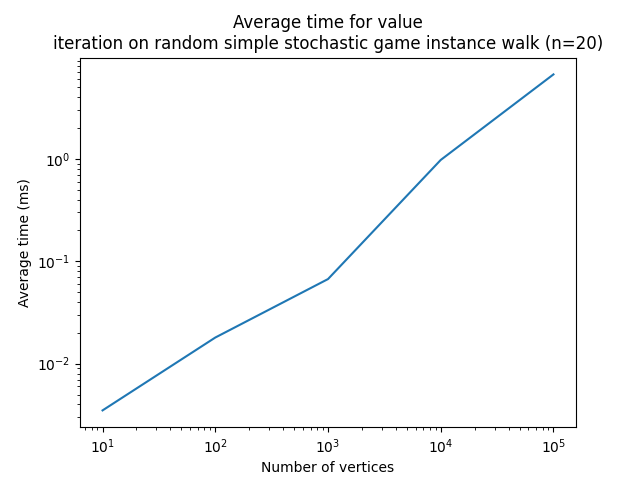
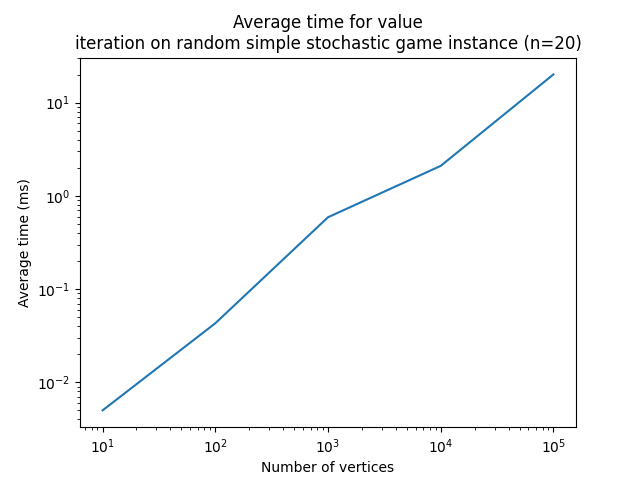
some cleanup

diff --git a/src/shapley-stochastic-game/shapleyStochasticGame.cpp b/src/shapley-stochastic-game/shapleyStochasticGame.cpp
@@ -24,7 +24,7 @@ shapleyStochasticGame::shapleyStochasticGame(vector<shapleyVertex> vertices, f_t
         }
     }
 
-    f_t q = 1.f;
+    q = 1.f;
 
     for(const auto& vertex : vertices) {
         for(const auto& row : vertex.succs) {
@@ -116,34 +116,8 @@ vector<int_t> shapleyStochasticGame::scaleUp(const vector<f_t>& v) {
 function<vector<int_t>(const vector<int_t>& v)> shapleyStochasticGame::getMonotoneFunction() {
     return [this](const vector<int_t>& v) -> vector<int_t> {
         auto scaled = scaleDown(v);
-        vector<f_t> results(v.size(), -1);
-        vector<std::thread> threads;
-        threads.reserve(v.size());
-
-        for(int k = 0; k < vertices.size(); k++) {
-            auto computeForVertex = [this, &results, k, &scaled]() {
-                auto vertex = vertices[k];
-                vector<vector<f_t>> m(
-                        vertex.payoffs.size(),
-                        vector<f_t>(vertex.payoffs[0].size(), 0));
-
-                for(int i = 0; i < vertex.succs.size(); i++) {
-                    for(int j = 0; j < vertex.succs[i].size(); j++) {
-                        for(const auto& succ : vertex.succs[i][j]) {
-                            m[i][j] += succ.p * scaled[succ.i];
-                        }
-                    }
-                }
-
-                add(m, vertex.payoffs);
-                f_t val = getZeroSumVal(m);
-                results[k] = val;
-            };
-            threads.emplace_back(computeForVertex);
-        }
-
-        for(std::thread& thread : threads) thread.join();
-        auto result = scaleUp(results);
+        auto ctsResult = computeFunction(scaled);
+        auto result = scaleUp(ctsResult);
         assert(latticeLe(result, getTop()));
         assert(latticeLe(getBot(), result));
         return result;
@@ -159,6 +133,46 @@ vector<int_t> shapleyStochasticGame::getTop() {
     return top;
 }
 
+function<vector<f_t>(const vector<f_t>& v)> shapleyStochasticGame::getCtsMonotoneFunction() {
+    return [this](const vector<f_t>& v) -> vector<f_t> {
+        return computeFunction(v);
+    };
+}
+const vector<f_t> shapleyStochasticGame::getCtsStart() {
+    vector<f_t> start(vertices.size(), 0);
+    return start;
+}
+
+const vector<f_t> shapleyStochasticGame::computeFunction(const vector<f_t>& scaled) {
+    vector<f_t> results(vertices.size(), -1);
+    vector<std::thread> threads;
+    threads.reserve(vertices.size());
+
+    for(int k = 0; k < vertices.size(); k++) {
+        auto computeForVertex = [this, &results, k, &scaled]() {
+            auto vertex = vertices[k];
+            vector<vector<f_t>> m(
+                    vertex.payoffs.size(),
+                    vector<f_t>(vertex.payoffs[0].size(), 0));
+
+            for(int i = 0; i < vertex.succs.size(); i++) {
+                for(int j = 0; j < vertex.succs[i].size(); j++) {
+                    for(const auto& succ : vertex.succs[i][j]) {
+                        m[i][j] += succ.p * scaled[succ.i];
+                    }
+                }
+            }
+
+            add(m, vertex.payoffs);
+            f_t val = getZeroSumVal(m);
+            results[k] = val;
+        };
+        threads.emplace_back(computeForVertex);
+    }
+
+    for(std::thread& thread : threads) thread.join();
+    return results;
+}
 void shapleyStochasticGame::print() {
     for(int i = 0; i < vertices.size(); i++) {
         auto& v = vertices[i];

diff --git a/src/analysis/runAnalysis.cpp b/src/analysis/runAnalysis.cpp
@@ -20,7 +20,7 @@
 #include <thread>
 #include "../shapley-stochastic-game/shapleyStochasticGame.h"
 #include "../shapley-stochastic-game/shapleyStochasticGameGenerator.h"
-#include "../simple-stochatic-game/valueIteration.h"
+#include "../fixpoint/valueIteration.h"
 
 using std::chrono::duration;
 using std::chrono::high_resolution_clock;
@@ -114,6 +114,30 @@ pair<int, double> solveShapleyStochasticGame(int size, algorithm algorithmToRun,
     auto t2 = high_resolution_clock::now();
 
     if(!isAllFixed(f(fixpoint))) throw runtime_error("algorithm returned a point which is not fixed!");
+    duration<double, std::milli> ms = t2 - t1;
+    return {queryCounter, ms.count()};
+}
+
+pair<int, double> valIterateShapleyStochasticGame(int instanceSize,
+                                                 f_t eps = 0.01) {
+    shapleyStochasticGame g = generateShapleyStochasticGame(instanceSize, eps);
+    auto f = g.getCtsMonotoneFunction();
+
+    long long queryCounter = 0;
+
+    auto fWithCounter = [&f, &queryCounter](const vector<f_t>& v) {
+        queryCounter++;
+        return f(v);
+    };
+
+    auto start = g.getCtsStart();
+
+    auto t1 = high_resolution_clock::now();
+    auto fixpoint = valueIteration(fWithCounter, start, eps * (1 - g.q));
+    auto t2 = high_resolution_clock::now();
+
+    auto fFix = f(fixpoint);
+    if(dist(fixpoint, fFix) > eps) throw runtime_error("algorithm returned a point which is not almost fixed!");
     duration<double, std::milli> ms = t2 - t1;
     return {queryCounter, ms.count()};
 }
@@ -291,6 +315,25 @@ void runAndPrintAnalysis() {
         cout << "avg steps was: " << avgQueries << endl;
         cout << "avg time was: " << avgTime << "ms" << endl;
     }
+
+//    cout << "STARTING SHAPLEY STOCHASTIC VALUE ITERATION TEST" << endl;
+//    cout << line;
+//    for(int testSize : shapleyWalkSizes) {
+//        vector<int> queryCounts {};
+//        vector<double> times {};
+//        for(int i = 0; i < n; i++) {
+//            auto [stepCount, time] = valIterateShapleyStochasticGame(testSize + 1, 0.01);
+//            queryCounts.push_back(stepCount);
+//            times.push_back(time);
+//        }
+//
+//        double avgTime = accumulate(times.begin(), times.end(), 0.0) / n;
+//        long long avgQueries = accumulate(queryCounts.begin(), queryCounts.end(), 0) / n;
+//        cout << "===========================================================" << endl;
+//        cout << "test size: " << testSize << endl;
+//        cout << "avg steps was: " << avgQueries << endl;
+//        cout << "avg time was: " << avgTime << "ms" << endl;
+//    }
 
 //    cout << "STARTING LONG ARRIVAL EPSILON TEST" << endl;
 //    for(int algI = recbin; algI != lastEntry; algI++) {

diff --git a/src/analysis/makePlots.py b/src/analysis/makePlots.py
@@ -45,8 +45,8 @@ simpleStochasticData = {
     },
     'walkData': {
         'testSize': [10, 100, 1000, 10000, 100000],
-        'queries': [19, 23, 12, 10, 6],
-        'times': [0.0035, 0.018, 0.067, 0.975, 6.67],
+        'queries': [30, 68, 115, 28, 23],
+        'times': [0.005, 0.043, 0.59, 2.10, 20.1],
 
     }
 }
@@ -92,8 +92,8 @@ shapleyData = {
     },
     'walkData': {
         'testSize': [10, 15, 20, 30, 40],
-        'queries': [48, 49, 50, 52, 52],
-        'times': [54.5, 74.94, 107.2, 176.2, 255.4],
+        'queries': [19, 19, 19, 17, 16],
+        'times': [24.5, 35.9, 46.0, 68.7, 87.8],
 
     }
 }
@@ -176,7 +176,7 @@ def plotSimpleStochastic():
         d = simpleStochasticData['walkData']
         plt.plot(d['testSize'], d[type])
         plt.title(f"Average {'number of iterations' if type == 'queries' else 'time'} for value\n"
-                  f"iteration on random simple stochastic game instance walk (n=20)")
+                  f"iteration on random simple stochastic game instance (n=20)")
 
         plt.xscale('log')
         if type == 'times':
@@ -245,7 +245,7 @@ def plotShapley():
         d = shapleyData['walkData']
         plt.plot(d['testSize'], d[type])
         plt.title(f"Average {'iterations' if type == 'queries' else 'time'} for value iteration on\n"
-                  f"random shapley stochastic game instance walk (n=20)")
+                  f"random shapley stochastic game instance (n=20)")
         plt.xlabel('Number of vertices')
         if type == 'times':
             plt.ylabel('Average time (ms)')

diff --git a/src/main.cpp b/src/main.cpp
@@ -1,51 +1,7 @@
 #include "analysis/runAnalysis.h"
-#include <soplex.h>
-#include <soplex/gzstream.h>
-#include "shapley-stochastic-game/shapleyStochasticGame.h"
-#include <glpk.h>
-
-#include "simple-stochatic-game/simpleStochasticGameGenerator.h"
-#include "shapley-stochastic-game/shapleyStochasticGameGenerator.h"
-
-using namespace std;
-using namespace soplex;
-
 
 int main() {
-//    f_t x = 0.65;
-//    int_t sum = 0;
-//    int_t y = 20;
-//    sum += y * x;
-//
-//    cout << "sum is: " << sum;
-
-//    vector<vector<f_t>> rockPaperScissors {
-//        {0, 1, -1},
-//        {-1, 0, 1},
-//        {1, -1, 0},
-//    };
-//
-//    vector<vector<f_t>> example2 {
-//        {1, 2, 3},
-//        {-1, -2, 5},
-//        {8, -6, 2},
-//        {-2, -3, 10},
-//    };
-//
-//    vector<vector<f_t>> example3 {
-//        {1, -2, 3},
-//        {-1, 2, 1},
-//        {4, -5, 2},
-//    };
-//
-//    auto x = getZeroSumVal(rockPaperScissors);
-//    auto y = getZeroSumVal(example2);
-//    auto z = getZeroSumVal(example3);
-//
-
     runAndPrintAnalysis();
-
-    return 0;
 }
 
 

diff --git a/src/shapley-stochastic-game/shapleyStochasticGame.h b/src/shapley-stochastic-game/shapleyStochasticGame.h
@@ -25,17 +25,21 @@ struct shapleyVertex {
 struct shapleyStochasticGame {
     vector<shapleyVertex> vertices;
     function<vector<int_t>(const vector<int_t>& v)> getMonotoneFunction();
+    function<vector<f_t>(const vector<f_t>& v)> getCtsMonotoneFunction();
+    const vector<f_t> getCtsStart();
+    const vector<f_t> computeFunction(const vector<f_t>& vf);
     vector<int_t> getBot();
     vector<int_t> getTop();
     shapleyStochasticGame(vector<shapleyVertex> vertices, f_t eps);
     vector<f_t> scaleDown(const vector<int_t>& v);
     vector<int_t> scaleUp(const vector<f_t>& v);
     void print();
+    f_t scale;
+    f_t q;
 
 private:
     const f_t EPSILON;
     int_t N;
-    f_t scale;
 };
 
 f_t getZeroSumVal(const vector<vector<f_t>>& payoffMatrix);

diff --git a/src/fixpoint/valueIteration.h b/src/fixpoint/valueIteration.h
@@ -5,7 +5,7 @@
 #ifndef SRC_VALUEITERATION_H
 #define SRC_VALUEITERATION_H
 #include "../config.h"
-#include "simpleStochasticGame.h"
+#include "../simple-stochatic-game/simpleStochasticGame.h"
 
 f_t dist(const vector<f_t>& x, const vector<f_t>& y);
 vector<f_t> valueIteration(const function<vector<f_t>(const vector<f_t>& v)>& f, const vector<f_t>& start, f_t EPSILON);

diff --git a/src/fixpoint/fixDecompAlgorithm.cpp b/src/fixpoint/fixDecompAlgorithm.cpp
@@ -7,8 +7,6 @@
 #include "recursiveBinarySearch.h"
 #include <iostream>
 
-#include "boost/multiprecision/gmp.hpp"
-
 
 vector<int_t> findFixpointByFixDecomposition(const vector<int_t> &bot,
                                            const vector<int_t> &top,

diff --git a/src/config.h b/src/config.h
@@ -12,6 +12,7 @@ typedef long long int_t;
 //typedef mpq_class f_t;
 typedef double f_t;
 
+
 mpz_class min(const mpz_class& a, const mpz_class& b);
 mpz_class max(const mpz_class& a, const mpz_class& b);
 

diff --git a/src/fixpoint/valueIteration.cpp b/src/fixpoint/valueIteration.cpp
@@ -2,6 +2,7 @@
 // Created by angus on 30/03/2024.
 //
 #include "valueIteration.h"
+#include <iostream>
 
 f_t dist(const vector<f_t>& x, const vector<f_t>& y) {
     assert(x.size() == y.size());
